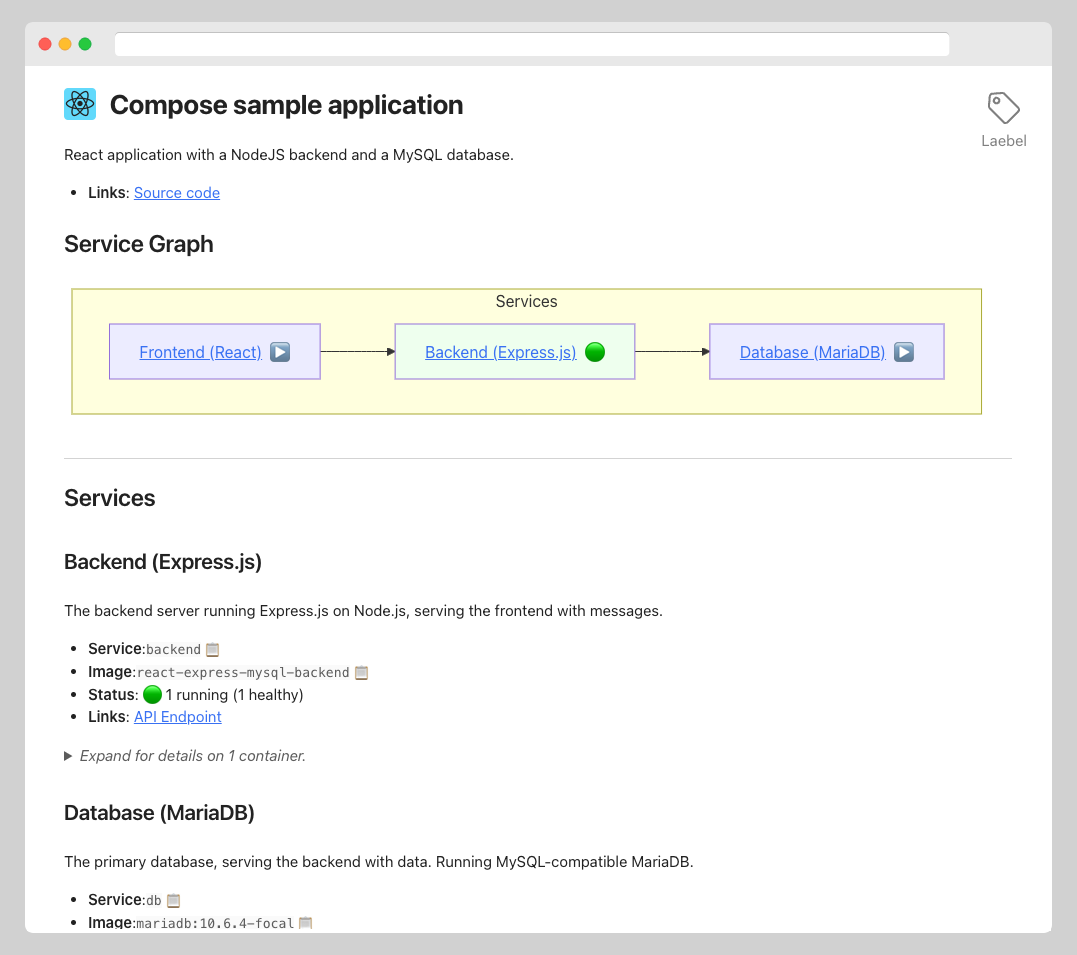
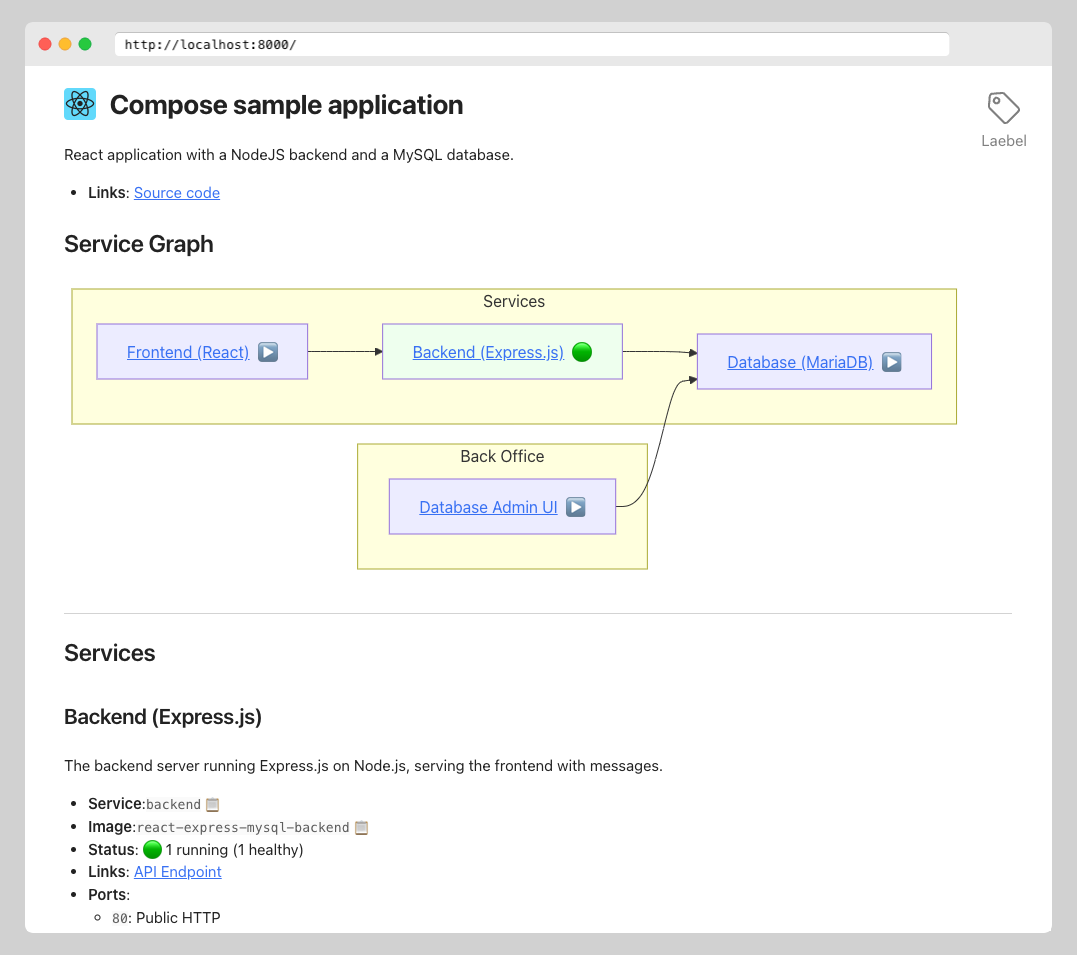
Updated example to include phpMyAdmin and use port labels.

diff --git a/examples/react-express-mysql/laebel-output.html b/examples/react-express-mysql/laebel-output.html
@@ -36,16 +36,15 @@
                 <h2 class="title">Service Graph</h2>
                 
 
-<pre class="mermaid" data-processed="true"><svg aria-roledescription="flowchart-v2" role="graphics-document document" viewBox="0 0 929.38330078125 140.5" style="max-width: 929.38330078125px;" class="flowchart" xlink="http://www.w3.org/1999/xlink" xmlns="http://www.w3.org/2000/svg" width="100%" id="mermaid-1728328119660"><style>#mermaid-1728328119660{font-family:system-ui,sans-serif;font-size:16px;fill:#333;}#mermaid-1728328119660 .error-icon{fill:#552222;}#mermaid-1728328119660 .error-text{fill:#552222;stroke:#552222;}#mermaid-1728328119660 .edge-thickness-normal{stroke-width:1px;}#mermaid-1728328119660 .edge-thickness-thick{stroke-width:3.5px;}#mermaid-1728328119660 .edge-pattern-solid{stroke-dasharray:0;}#mermaid-1728328119660 .edge-thickness-invisible{stroke-width:0;fill:none;}#mermaid-1728328119660 .edge-pattern-dashed{stroke-dasharray:3;}#mermaid-1728328119660 .edge-pattern-dotted{stroke-dasharray:2;}#mermaid-1728328119660 .marker{fill:#333333;stroke:#333333;}#mermaid-1728328119660 .marker.cross{stroke:#333333;}#mermaid-1728328119660 svg{font-family:system-ui,sans-serif;font-size:16px;}#mermaid-1728328119660 p{margin:0;}#mermaid-1728328119660 .label{font-family:system-ui,sans-serif;color:#333;}#mermaid-1728328119660 .cluster-label text{fill:#333;}#mermaid-1728328119660 .cluster-label span{color:#333;}#mermaid-1728328119660 .cluster-label span p{background-color:transparent;}#mermaid-1728328119660 .label text,#mermaid-1728328119660 span{fill:#333;color:#333;}#mermaid-1728328119660 .node rect,#mermaid-1728328119660 .node circle,#mermaid-1728328119660 .node ellipse,#mermaid-1728328119660 .node polygon,#mermaid-1728328119660 .node path{fill:#ECECFF;stroke:#9370DB;stroke-width:1px;}#mermaid-1728328119660 .rough-node .label text,#mermaid-1728328119660 .node .label text{text-anchor:middle;}#mermaid-1728328119660 .node .katex path{fill:#000;stroke:#000;stroke-width:1px;}#mermaid-1728328119660 .node .label{text-align:center;}#mermaid-1728328119660 .node.clickable{cursor:pointer;}#mermaid-1728328119660 .arrowheadPath{fill:#333333;}#mermaid-1728328119660 .edgePath .path{stroke:#333333;stroke-width:2.0px;}#mermaid-1728328119660 .flowchart-link{stroke:#333333;fill:none;}#mermaid-1728328119660 .edgeLabel{background-color:rgba(232,232,232, 0.8);text-align:center;}#mermaid-1728328119660 .edgeLabel p{background-color:rgba(232,232,232, 0.8);}#mermaid-1728328119660 .edgeLabel rect{opacity:0.5;background-color:rgba(232,232,232, 0.8);fill:rgba(232,232,232, 0.8);}#mermaid-1728328119660 .labelBkg{background-color:rgba(232, 232, 232, 0.5);}#mermaid-1728328119660 .cluster rect{fill:#ffffde;stroke:#aaaa33;stroke-width:1px;}#mermaid-1728328119660 .cluster text{fill:#333;}#mermaid-1728328119660 .cluster span{color:#333;}#mermaid-1728328119660 div.mermaidTooltip{position:absolute;text-align:center;max-width:200px;padding:2px;font-family:system-ui,sans-serif;font-size:12px;background:hsl(80, 100%, 96.2745098039%);border:1px solid #aaaa33;border-radius:2px;pointer-events:none;z-index:100;}#mermaid-1728328119660 .flowchartTitleText{text-anchor:middle;font-size:18px;fill:#333;}#mermaid-1728328119660 :root{--mermaid-font-family:system-ui,sans-serif;}</style><g><marker orient="auto" markerHeight="8" markerWidth="8" markerUnits="userSpaceOnUse" refY="5" refX="5" viewBox="0 0 10 10" class="marker flowchart-v2" id="mermaid-1728328119660_flowchart-v2-pointEnd"><path style="stroke-width: 1px; stroke-dasharray: 1px, 0px;" class="arrowMarkerPath" d="M 0 0 L 10 5 L 0 10 z"></path></marker><marker orient="auto" markerHeight="8" markerWidth="8" markerUnits="userSpaceOnUse" refY="5" refX="4.5" viewBox="0 0 10 10" class="marker flowchart-v2" id="mermaid-1728328119660_flowchart-v2-pointStart"><path style="stroke-width: 1px; stroke-dasharray: 1px, 0px;" class="arrowMarkerPath" d="M 0 5 L 10 10 L 10 0 z"></path></marker><marker orient="auto" markerHeight="11" markerWidth="11" markerUnits="userSpaceOnUse" refY="5" refX="11" viewBox="0 0 10 10" class="marker flowchart-v2" id="mermaid-1728328119660_flowchart-v2-circleEnd"><circle style="stroke-width: 1px; stroke-dasharray: 1px, 0px;" class="arrowMarkerPath" r="5" cy="5" cx="5"></circle></marker><marker orient="auto" markerHeight="11" markerWidth="11" markerUnits="userSpaceOnUse" refY="5" refX="-1" viewBox="0 0 10 10" class="marker flowchart-v2" id="mermaid-1728328119660_flowchart-v2-circleStart"><circle style="stroke-width: 1px; stroke-dasharray: 1px, 0px;" class="arrowMarkerPath" r="5" cy="5" cx="5"></circle></marker><marker orient="auto" markerHeight="11" markerWidth="11" markerUnits="userSpaceOnUse" refY="5.2" refX="12" viewBox="0 0 11 11" class="marker cross flowchart-v2" id="mermaid-1728328119660_flowchart-v2-crossEnd"><path style="stroke-width: 2px; stroke-dasharray: 1px, 0px;" class="arrowMarkerPath" d="M 1,1 l 9,9 M 10,1 l -9,9"></path></marker><marker orient="auto" markerHeight="11" markerWidth="11" markerUnits="userSpaceOnUse" refY="5.2" refX="-1" viewBox="0 0 11 11" class="marker cross flowchart-v2" id="mermaid-1728328119660_flowchart-v2-crossStart"><path style="stroke-width: 2px; stroke-dasharray: 1px, 0px;" class="arrowMarkerPath" d="M 1,1 l 9,9 M 10,1 l -9,9"></path></marker><g class="root"><g class="clusters"></g><g class="edgePaths"></g><g class="edgeLabels"></g><g class="nodes"><g transform="translate(0, 0)" class="root"><g class="clusters"><g data-look="classic" id="Services" class="cluster"><rect height="124.5" width="913.3833312988281" y="8" x="8" style=""></rect><g transform="translate(433.66666412353516, 8)" class="cluster-label"><foreignObject height="24" width="62.05000305175781"><div xmlns="http://www.w3.org/1999/xhtml" style="display: table-cell; white-space: nowrap; line-height: 1.5; max-width: 200px; text-align: center;"><span class="nodeLabel"><p>Services</p></span></div></foreignObject></g></g></g><g class="edgePaths"><path marker-end="url(#mermaid-1728328119660_flowchart-v2-pointEnd)" style="" class="edge-thickness-normal edge-pattern-solid edge-thickness-normal edge-pattern-solid flowchart-link" id="L_backend_db_0" d="M573.383,70.25L579.633,70.25C585.883,70.25,598.383,70.25,607.758,70.25C617.133,70.25,623.383,70.25,628.967,70.25C634.55,70.25,639.467,70.25,641.925,70.25L644.383,70.25"></path><path marker-end="url(#mermaid-1728328119660_flowchart-v2-pointEnd)" style="" class="edge-thickness-normal edge-pattern-solid edge-thickness-normal edge-pattern-solid flowchart-link" id="L_frontend_backend_1" d="M257.4,70.25L263.65,70.25C269.9,70.25,282.4,70.25,291.775,70.25C301.15,70.25,307.4,70.25,312.983,70.25C318.567,70.25,323.483,70.25,325.942,70.25L328.4,70.25"></path></g><g class="edgeLabels"><g class="edgeLabel"><g transform="translate(0, 0)" class="label"><foreignObject height="0" width="0"><div class="labelBkg" xmlns="http://www.w3.org/1999/xhtml" style="display: table-cell; white-space: nowrap; line-height: 1.5; max-width: 200px; text-align: center;"><span class="edgeLabel"></span></div></foreignObject></g></g><g class="edgeLabel"><g transform="translate(0, 0)" class="label"><foreignObject height="0" width="0"><div class="labelBkg" xmlns="http://www.w3.org/1999/xhtml" style="display: table-cell; white-space: nowrap; line-height: 1.5; max-width: 200px; text-align: center;"><span class="edgeLabel"></span></div></foreignObject></g></g></g><g class="nodes"><g transform="translate(452.89166259765625, 70.25)" id="flowchart-backend-0" class="node default"><rect height="54.5" width="240.98333740234375" y="-27.25" x="-120.49166870117188" data-et="node" data-id="abc" style="" class="basic label-container"></rect><g transform="translate(-90.49166870117188, -12.25)" style="" class="label"><rect></rect><foreignObject height="24.5" width="180.98333740234375"><div xmlns="http://www.w3.org/1999/xhtml" style="display: table-cell; white-space: nowrap; line-height: 1.5; max-width: 200px; text-align: center;"><span class="nodeLabel"><p><a href="#backend">Backend (Express.js)</a><span class="backend-status icon"></span></p></span></div></foreignObject></g></g><g transform="translate(766.1333312988281, 70.25)" id="flowchart-db-1" class="node default"><rect height="54.5" width="235.5" y="-27.25" x="-117.75" data-et="node" data-id="abc" style="" class="basic label-container"></rect><g transform="translate(-87.75, -12.25)" style="" class="label"><rect></rect><foreignObject height="24.5" width="175.5"><div xmlns="http://www.w3.org/1999/xhtml" style="display: table-cell; white-space: nowrap; line-height: 1.5; max-width: 200px; text-align: center;"><span class="nodeLabel"><p><a href="#db">Database (MariaDB)</a><span class="db-status icon"></span></p></span></div></foreignObject></g></g><g transform="translate(151.4499969482422, 70.25)" id="flowchart-frontend-2" class="node default"><rect height="54.5" width="211.89999389648438" y="-27.25" x="-105.94999694824219" data-et="node" data-id="abc" style="" class="basic label-container"></rect><g transform="translate(-75.94999694824219, -12.25)" style="" class="label"><rect></rect><foreignObject height="24.5" width="151.89999389648438"><div xmlns="http://www.w3.org/1999/xhtml" style="display: table-cell; white-space: nowrap; line-height: 1.5; max-width: 200px; text-align: center;"><span class="nodeLabel"><p><a href="#frontend">Frontend (React)</a><span class="frontend-status icon"></span></p></span></div></foreignObject></g></g></g></g></g></g></g></svg></pre>
+<pre class="mermaid" data-processed="true"><svg aria-roledescription="flowchart-v2" role="graphics-document document" viewBox="0 0 904.38330078125 295" style="max-width: 904.38330078125px;" class="flowchart" xlink="http://www.w3.org/1999/xlink" xmlns="http://www.w3.org/2000/svg" width="100%" id="mermaid-1728425128874"><style>#mermaid-1728425128874{font-family:system-ui,sans-serif;font-size:16px;fill:#333;}#mermaid-1728425128874 .error-icon{fill:#552222;}#mermaid-1728425128874 .error-text{fill:#552222;stroke:#552222;}#mermaid-1728425128874 .edge-thickness-normal{stroke-width:1px;}#mermaid-1728425128874 .edge-thickness-thick{stroke-width:3.5px;}#mermaid-1728425128874 .edge-pattern-solid{stroke-dasharray:0;}#mermaid-1728425128874 .edge-thickness-invisible{stroke-width:0;fill:none;}#mermaid-1728425128874 .edge-pattern-dashed{stroke-dasharray:3;}#mermaid-1728425128874 .edge-pattern-dotted{stroke-dasharray:2;}#mermaid-1728425128874 .marker{fill:#333333;stroke:#333333;}#mermaid-1728425128874 .marker.cross{stroke:#333333;}#mermaid-1728425128874 svg{font-family:system-ui,sans-serif;font-size:16px;}#mermaid-1728425128874 p{margin:0;}#mermaid-1728425128874 .label{font-family:system-ui,sans-serif;color:#333;}#mermaid-1728425128874 .cluster-label text{fill:#333;}#mermaid-1728425128874 .cluster-label span{color:#333;}#mermaid-1728425128874 .cluster-label span p{background-color:transparent;}#mermaid-1728425128874 .label text,#mermaid-1728425128874 span{fill:#333;color:#333;}#mermaid-1728425128874 .node rect,#mermaid-1728425128874 .node circle,#mermaid-1728425128874 .node ellipse,#mermaid-1728425128874 .node polygon,#mermaid-1728425128874 .node path{fill:#ECECFF;stroke:#9370DB;stroke-width:1px;}#mermaid-1728425128874 .rough-node .label text,#mermaid-1728425128874 .node .label text{text-anchor:middle;}#mermaid-1728425128874 .node .katex path{fill:#000;stroke:#000;stroke-width:1px;}#mermaid-1728425128874 .node .label{text-align:center;}#mermaid-1728425128874 .node.clickable{cursor:pointer;}#mermaid-1728425128874 .arrowheadPath{fill:#333333;}#mermaid-1728425128874 .edgePath .path{stroke:#333333;stroke-width:2.0px;}#mermaid-1728425128874 .flowchart-link{stroke:#333333;fill:none;}#mermaid-1728425128874 .edgeLabel{background-color:rgba(232,232,232, 0.8);text-align:center;}#mermaid-1728425128874 .edgeLabel p{background-color:rgba(232,232,232, 0.8);}#mermaid-1728425128874 .edgeLabel rect{opacity:0.5;background-color:rgba(232,232,232, 0.8);fill:rgba(232,232,232, 0.8);}#mermaid-1728425128874 .labelBkg{background-color:rgba(232, 232, 232, 0.5);}#mermaid-1728425128874 .cluster rect{fill:#ffffde;stroke:#aaaa33;stroke-width:1px;}#mermaid-1728425128874 .cluster text{fill:#333;}#mermaid-1728425128874 .cluster span{color:#333;}#mermaid-1728425128874 div.mermaidTooltip{position:absolute;text-align:center;max-width:200px;padding:2px;font-family:system-ui,sans-serif;font-size:12px;background:hsl(80, 100%, 96.2745098039%);border:1px solid #aaaa33;border-radius:2px;pointer-events:none;z-index:100;}#mermaid-1728425128874 .flowchartTitleText{text-anchor:middle;font-size:18px;fill:#333;}#mermaid-1728425128874 :root{--mermaid-font-family:system-ui,sans-serif;}</style><g><marker orient="auto" markerHeight="8" markerWidth="8" markerUnits="userSpaceOnUse" refY="5" refX="5" viewBox="0 0 10 10" class="marker flowchart-v2" id="mermaid-1728425128874_flowchart-v2-pointEnd"><path style="stroke-width: 1px; stroke-dasharray: 1px, 0px;" class="arrowMarkerPath" d="M 0 0 L 10 5 L 0 10 z"></path></marker><marker orient="auto" markerHeight="8" markerWidth="8" markerUnits="userSpaceOnUse" refY="5" refX="4.5" viewBox="0 0 10 10" class="marker flowchart-v2" id="mermaid-1728425128874_flowchart-v2-pointStart"><path style="stroke-width: 1px; stroke-dasharray: 1px, 0px;" class="arrowMarkerPath" d="M 0 5 L 10 10 L 10 0 z"></path></marker><marker orient="auto" markerHeight="11" markerWidth="11" markerUnits="userSpaceOnUse" refY="5" refX="11" viewBox="0 0 10 10" class="marker flowchart-v2" id="mermaid-1728425128874_flowchart-v2-circleEnd"><circle style="stroke-width: 1px; stroke-dasharray: 1px, 0px;" class="arrowMarkerPath" r="5" cy="5" cx="5"></circle></marker><marker orient="auto" markerHeight="11" markerWidth="11" markerUnits="userSpaceOnUse" refY="5" refX="-1" viewBox="0 0 10 10" class="marker flowchart-v2" id="mermaid-1728425128874_flowchart-v2-circleStart"><circle style="stroke-width: 1px; stroke-dasharray: 1px, 0px;" class="arrowMarkerPath" r="5" cy="5" cx="5"></circle></marker><marker orient="auto" markerHeight="11" markerWidth="11" markerUnits="userSpaceOnUse" refY="5.2" refX="12" viewBox="0 0 11 11" class="marker cross flowchart-v2" id="mermaid-1728425128874_flowchart-v2-crossEnd"><path style="stroke-width: 2px; stroke-dasharray: 1px, 0px;" class="arrowMarkerPath" d="M 1,1 l 9,9 M 10,1 l -9,9"></path></marker><marker orient="auto" markerHeight="11" markerWidth="11" markerUnits="userSpaceOnUse" refY="5.2" refX="-1" viewBox="0 0 11 11" class="marker cross flowchart-v2" id="mermaid-1728425128874_flowchart-v2-crossStart"><path style="stroke-width: 2px; stroke-dasharray: 1px, 0px;" class="arrowMarkerPath" d="M 1,1 l 9,9 M 10,1 l -9,9"></path></marker><g class="root"><g class="clusters"><g data-look="classic" id="subGraph1" class="cluster"><rect height="124.5" width="290.98333740234375" y="162.5" x="294.8999938964844" style=""></rect><g transform="translate(398.2583312988281, 162.5)" class="cluster-label"><foreignObject height="24" width="84.26666259765625"><div xmlns="http://www.w3.org/1999/xhtml" style="display: table-cell; white-space: nowrap; line-height: 1.5; max-width: 200px; text-align: center;"><span class="nodeLabel"><p>Back Office</p></span></div></foreignObject></g></g><g data-look="classic" id="subGraph0" class="cluster"><rect height="134.5" width="888.3833312988281" y="8" x="8" style=""></rect><g transform="translate(421.16666412353516, 8)" class="cluster-label"><foreignObject height="24" width="62.05000305175781"><div xmlns="http://www.w3.org/1999/xhtml" style="display: table-cell; white-space: nowrap; line-height: 1.5; max-width: 200px; text-align: center;"><span class="nodeLabel"><p>Services</p></span></div></foreignObject></g></g></g><g class="edgePaths"><path marker-end="url(#mermaid-1728425128874_flowchart-v2-pointEnd)" style="" class="edge-thickness-normal edge-pattern-solid edge-thickness-normal edge-pattern-solid flowchart-link" id="L_backend_db_0" d="M560.883,70.25L565.05,70.25C569.217,70.25,577.55,70.25,585.883,70.25C594.217,70.25,602.55,70.25,608.8,70.396C615.05,70.542,619.217,70.834,622.718,71.079C626.22,71.324,629.057,71.523,630.475,71.622L631.893,71.722"></path><path marker-end="url(#mermaid-1728425128874_flowchart-v2-pointEnd)" style="" class="edge-thickness-normal edge-pattern-solid edge-thickness-normal edge-pattern-solid flowchart-link" id="L_frontend_backend_1" d="M244.9,70.25L249.067,70.25C253.233,70.25,261.567,70.25,269.9,70.25C278.233,70.25,286.567,70.25,292.817,70.25C299.067,70.25,303.233,70.25,306.733,70.25C310.233,70.25,313.067,70.25,314.483,70.25L315.9,70.25"></path><path marker-end="url(#mermaid-1728425128874_flowchart-v2-pointEnd)" style="" class="edge-thickness-normal edge-pattern-solid edge-thickness-normal edge-pattern-solid flowchart-link" id="L_phpMyAdmin_db_2" d="M554.383,224.75L559.633,224.75C564.883,224.75,575.383,224.75,584.8,204.188C594.217,183.625,602.55,142.5,608.8,121.629C615.05,100.758,619.217,100.142,622.724,99.623C626.231,99.104,629.079,98.682,630.503,98.472L631.926,98.261"></path></g><g class="edgeLabels"><g class="edgeLabel"><g transform="translate(0, 0)" class="label"><foreignObject height="0" width="0"><div class="labelBkg" xmlns="http://www.w3.org/1999/xhtml" style="display: table-cell; white-space: nowrap; line-height: 1.5; max-width: 200px; text-align: center;"><span class="edgeLabel"></span></div></foreignObject></g></g><g class="edgeLabel"><g transform="translate(0, 0)" class="label"><foreignObject height="0" width="0"><div class="labelBkg" xmlns="http://www.w3.org/1999/xhtml" style="display: table-cell; white-space: nowrap; line-height: 1.5; max-width: 200px; text-align: center;"><span class="edgeLabel"></span></div></foreignObject></g></g><g class="edgeLabel"><g transform="translate(0, 0)" class="label"><foreignObject height="0" width="0"><div class="labelBkg" xmlns="http://www.w3.org/1999/xhtml" style="display: table-cell; white-space: nowrap; line-height: 1.5; max-width: 200px; text-align: center;"><span class="edgeLabel"></span></div></foreignObject></g></g></g><g class="nodes"><g transform="translate(440.39166259765625, 70.25)" id="flowchart-backend-0" class="node default"><rect height="54.5" width="240.98333740234375" y="-27.25" x="-120.49166870117188" data-et="node" data-id="abc" style="" class="basic label-container"></rect><g transform="translate(-90.49166870117188, -12.25)" style="" class="label"><rect></rect><foreignObject height="24.5" width="180.98333740234375"><div xmlns="http://www.w3.org/1999/xhtml" style="display: table-cell; white-space: nowrap; line-height: 1.5; max-width: 200px; text-align: center;"><span class="nodeLabel"><p><a href="#backend">Backend (Express.js)</a><span class="backend-status icon"></span></p></span></div></foreignObject></g></g><g transform="translate(753.6333312988281, 80.25)" id="flowchart-db-1" class="node default"><rect height="54.5" width="235.5" y="-27.25" x="-117.75" data-et="node" data-id="abc" style="" class="basic label-container"></rect><g transform="translate(-87.75, -12.25)" style="" class="label"><rect></rect><foreignObject height="24.5" width="175.5"><div xmlns="http://www.w3.org/1999/xhtml" style="display: table-cell; white-space: nowrap; line-height: 1.5; max-width: 200px; text-align: center;"><span class="nodeLabel"><p><a href="#db">Database (MariaDB)</a><span class="db-status icon"></span></p></span></div></foreignObject></g></g><g transform="translate(138.9499969482422, 70.25)" id="flowchart-frontend-2" class="node default"><rect height="54.5" width="211.89999389648438" y="-27.25" x="-105.94999694824219" data-et="node" data-id="abc" style="" class="basic label-container"></rect><g transform="translate(-75.94999694824219, -12.25)" style="" class="label"><rect></rect><foreignObject height="24.5" width="151.89999389648438"><div xmlns="http://www.w3.org/1999/xhtml" style="display: table-cell; white-space: nowrap; line-height: 1.5; max-width: 200px; text-align: center;"><span class="nodeLabel"><p><a href="#frontend">Frontend (React)</a><span class="frontend-status icon"></span></p></span></div></foreignObject></g></g><g transform="translate(440.39166259765625, 224.75)" id="flowchart-phpMyAdmin-3" class="node default"><rect height="54.5" width="227.98333740234375" y="-27.25" x="-113.99166870117188" data-et="node" data-id="abc" style="" class="basic label-container"></rect><g transform="translate(-83.99166870117188, -12.25)" style="" class="label"><rect></rect><foreignObject height="24.5" width="167.98333740234375"><div xmlns="http://www.w3.org/1999/xhtml" style="display: table-cell; white-space: nowrap; line-height: 1.5; max-width: 200px; text-align: center;"><span class="nodeLabel"><p><a href="#phpMyAdmin">Database Admin UI</a><span class="phpMyAdmin-status icon"></span></p></span></div></foreignObject></g></g></g></g></g></svg></pre>
 
 
             </section>
             
                 <section class="group">
-                    <h2 class="title">Services</h2>
+                    <h2 class="title"> Services</h2>
                     
                         
-    <section id="backend" class="service" hx-trigger="sse:status:backend" hx-get="/service?name=backend">
     <section id="backend" class="service" hx-trigger="sse:status:backend" hx-get="/service?name=backend">
         <h3 class="title">Backend (Express.js)</h3>
         <p class="description">The backend server running Express.js on Node.js, serving the frontend with messages.</p>
@@ -72,6 +71,11 @@
                     <a href="http://localhost/">API Endpoint</a>
                 </li>
             
+            
+                <li class="ports">
+                    <strong>Ports</strong>: <ul><li><code>80</code>: Public HTTP</li><li><code>9229</code>: Node.js Debugging</li><li><code>9230</code>: Node.js Profiling</li></ul>
+                </li>
+            
         </ul>
         <details class="containers">
             
@@ -81,26 +85,29 @@
                 <tr>
                     <th>Container ID</th>
                     <th>Name</th>
+                    <th>Created</th>
                     <th>Status</th>
                     <th>Health</th>
+                    <th>Port Bindings</th>
                 </tr>
                 </thead>
                 
[1 lines of base64/hex data omitted]
-                        <td><code>a7475b9e4d3333fb77789125ca25a739acf630453f419d4b72eefd8902c14040</code> 
+                    <tbody><tr class="container" id="05d2d67492e7">
+                        <td><code>05d2d67492e7</code> 
 <span class="clipboard" onclick="copyPreviousText(this)">📋</span>
 </td>
                         <td><code>react-express-mysql-backend-1</code> 
 <span class="clipboard" onclick="copyPreviousText(this)">📋</span>
 </td>
+                        <td>2024-10-08 21:44:12</td>
                         <td>running</td>
                         <td>healthy</td>
+                        <td>80, 9229, 9230</td>
                     </tr>
                 
             </tbody></table>
         </details>
     </section>
-</section>
 
                     
                         
@@ -125,6 +132,7 @@
 </span>
 </li>
             
+            
         </ul>
         <details class="containers">
             
@@ -134,20 +142,24 @@
                 <tr>
                     <th>Container ID</th>
                     <th>Name</th>
+                    <th>Created</th>
                     <th>Status</th>
                     <th>Health</th>
+                    <th>Port Bindings</th>
                 </tr>
                 </thead>
                 
[1 lines of base64/hex data omitted]
-                        <td><code>6dd73bacc050b347f0b52fcaaac768855aeda0990aae218d3295affddfcd42c1</code> 
+                    <tbody><tr class="container" id="ab70032210c3">
+                        <td><code>ab70032210c3</code> 
 <span class="clipboard" onclick="copyPreviousText(this)">📋</span>
 </td>
                         <td><code>react-express-mysql-db-1</code> 
 <span class="clipboard" onclick="copyPreviousText(this)">📋</span>
 </td>
+                        <td>2024-10-08 21:43:40</td>
                         <td>running</td>
                         <td>unknown</td>
+                        <td>none</td>
                     </tr>
                 
             </tbody></table>
@@ -182,6 +194,11 @@
                     <a href="http://localhost:3000/">Webpage</a>
                 </li>
             
+            
+                <li class="ports">
+                    <strong>Ports</strong>: <ul><li><code>3000</code>: Public HTTP</li></ul>
+                </li>
+            
         </ul>
         <details class="containers">
             
@@ -191,20 +208,98 @@
                 <tr>
                     <th>Container ID</th>
                     <th>Name</th>
+                    <th>Created</th>
                     <th>Status</th>
                     <th>Health</th>
+                    <th>Port Bindings</th>
                 </tr>
                 </thead>
                 
[1 lines of base64/hex data omitted]
-                        <td><code>27fc623a81faf972854928425b7aa60eae8620acb5c8456fabdf87ce02796710</code> 
+                    <tbody><tr class="container" id="690214dea11e">
+                        <td><code>690214dea11e</code> 
 <span class="clipboard" onclick="copyPreviousText(this)">📋</span>
 </td>
                         <td><code>react-express-mysql-frontend-1</code> 
 <span class="clipboard" onclick="copyPreviousText(this)">📋</span>
 </td>
+                        <td>2024-10-08 21:44:13</td>
                         <td>running</td>
                         <td>unknown</td>
+                        <td>3000</td>
+                    </tr>
+                
+            </tbody></table>
+        </details>
+    </section>
+
+                    
+                </section>
+            
+                <section class="group">
+                    <h2 class="title">Back Office</h2>
+                    
+                        
+    <section id="phpMyAdmin" class="service" hx-trigger="sse:status:phpMyAdmin" hx-get="/service?name=phpMyAdmin">
+        <h3 class="title">Database Admin UI</h3>
+        <p class="description">phpMyAdmin is a web-based database management tool for MariaDB.</p>
+        <ul>
+            
+            <li class="name"><strong>Service</strong>:<code>phpMyAdmin</code> 
+<span class="clipboard" onclick="copyPreviousText(this)">📋</span>
+
+            </li><li class="image"><strong>Image</strong>:<code>phpmyadmin/phpmyadmin</code> 
+<span class="clipboard" onclick="copyPreviousText(this)">📋</span>
+</li>
+            <li class="status"><strong>Status</strong>:
+<span class="status">
+<span class="icon" title="The service is running, but has no health information.">▶</span>
+<span class="details">
+
+<span class="running">1 running</span>
+</span>
+</span>
+</li>
+            
+                <li class="links">
+                    <strong>Links</strong>: 
+                    <a href="https://github.com/phpmyadmin/docker#readme">Website</a>, 
+                    <a href="https://github.com/phpmyadmin/docker#readme">Documentation</a>, 
+                    <a href="https://github.com/phpmyadmin/docker.git">Source code</a>, 
+                    <a href="http://localhost:8080/">phpMyAdmin</a>
+                </li>
+            
+            
+                <li class="ports">
+                    <strong>Ports</strong>: <ul><li><code>8080</code>: Internal HTTP</li></ul>
+                </li>
+            
+        </ul>
+        <details class="containers">
+            
+            <summary>Expand for details on 1 container.</summary>
+            <table>
+                <thead>
+                <tr>
+                    <th>Container ID</th>
+                    <th>Name</th>
+                    <th>Created</th>
+                    <th>Status</th>
+                    <th>Health</th>
+                    <th>Port Bindings</th>
+                </tr>
+                </thead>
+                
+                    <tbody><tr class="container" id="84ea7ec531ce">
+                        <td><code>84ea7ec531ce</code> 
+<span class="clipboard" onclick="copyPreviousText(this)">📋</span>
+</td>
+                        <td><code>react-express-mysql-phpMyAdmin-1</code> 
+<span class="clipboard" onclick="copyPreviousText(this)">📋</span>
+</td>
+                        <td>2024-10-08 21:45:49</td>
+                        <td>running</td>
+                        <td>unknown</td>
+                        <td>8080-&gt;80</td>
                     </tr>
                 
             </tbody></table>
@@ -217,13 +312,18 @@
         
     </main>
 
-<style hx-trigger="sse:status" hx-get="/graph-status.css" hx-swap="innerHTML" class="">.backend-status.icon::after { content: "🟢"; }
+<style hx-trigger="sse:status" hx-get="/graph-status.css" hx-swap="innerHTML">
+    .backend-status.icon::after { content: "🟢"; }
 .node:has(.backend-status.icon) rect { fill: #efe !important; }
 
 .db-status.icon::after { content: "▶"; }
 
 
 .frontend-status.icon::after { content: "▶"; }
+
+
+.phpMyAdmin-status.icon::after { content: "▶"; }
+
 
 
 </style>

diff --git a/examples/react-express-mysql/README.md b/examples/react-express-mysql/README.md
@@ -1,14 +1,17 @@
 # Example: Compose sample application
 
-The example is borrowed from Docker's [Awesome Compose](https://github.com/docker/awesome-compose) repository.
-
-It is a React application with a NodeJS backend and a MySQL database.
+The example is based on the "react-express-mysql" example in Docker's [Awesome Compose](https://github.com/docker/awesome-compose) repository.
+It consists of a simple full-stack application with a React application, a NodeJS backend, and a MariaDB database. 
+I've also added a phpMyAdmin database management UI to make it a little bit more interesting. 
 
 ## The configuration
 
-To clearly show what is part of the original example and what is added for Laebel, I've separated the two parts.
-- [`compose.yaml`](./compose.yaml): The original Compose file from the example. It defines the services and their configuration.
+To clearly show what is part of the traditional Docker Compose setup and what is added for Laebel,
+I've separated the two parts.
+- [`compose.yaml`](./compose.yaml): The typical Compose file for the example. It defines the services and their configuration.
 - [`compose.override.yaml`](./compose.override.yaml): The Laebel configuration file. It extends the original Compose file with Laebel-specific configuration.
+
+Note that it is perfectly fine to have the Laebel configuration in the same file as the Compose configuration.
 
 ## The output
 
